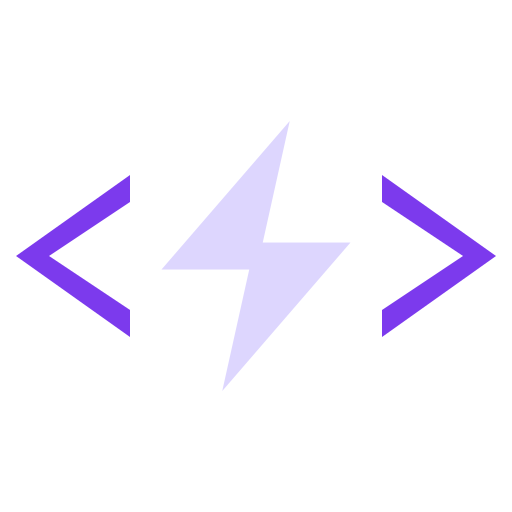
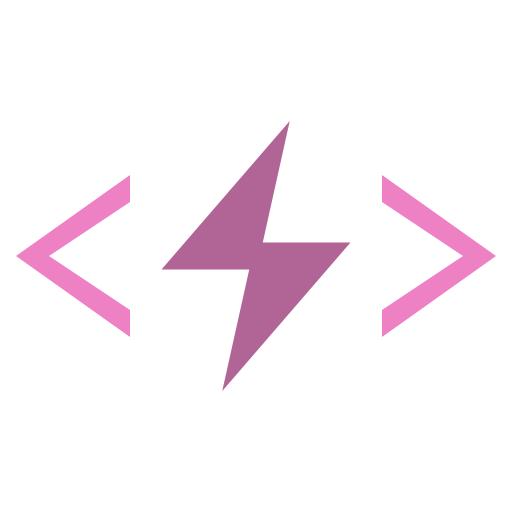
v0.24.3: Update README with breakdown vs plan philosophy, remove context sharing text

Changed region(s): [[0.3125, 0.25, 0.6875, 0.75], [0.7188, 0.3438, 0.9688, 0.6562], [0.0312, 0.3438, 0.2812, 0.6562]]

diff --git a/src/webview/App.tsx b/src/webview/App.tsx
@@ -59,6 +59,7 @@ export function App({ vscode }: AppProps) {
   );
   const autoResize = useTextareaAutoResize(textareaRef);
   useCodeActions(messageListRef, pinnedQueryRef, state.isStreaming);
+  useCodeActions(stepListRef, stepPinnedQueryRef, state.isStreaming, state.selectedStepIndex);
 
   // Keep message list bottom padding in sync with the input area height
   useEffect(() => {
@@ -277,8 +278,7 @@ export function App({ vscode }: AppProps) {
                 <Logo />
                 <div class="empty-state-text">
                   Your thinking partner — explore code, break down work, get
-                  your changes reviewed. Context is shared with the inline
-                  agent.
+                  your changes reviewed.
                 </div>
               </div>
             ) : (

diff --git a/src/webview/useCodeActions.ts b/src/webview/useCodeActions.ts
@@ -10,6 +10,7 @@ export function useCodeActions(
   messageListRef: preact.RefObject<HTMLDivElement>,
   pinnedQueryRef: preact.RefObject<HTMLDivElement>,
   isStreaming: boolean,
+  key?: unknown,
 ) {
   const isStreamingRef = useRef(isStreaming);
   isStreamingRef.current = isStreaming;
@@ -108,7 +109,7 @@ export function useCodeActions(
       list.removeEventListener("mouseleave", onMouseLeave);
       list.removeEventListener("scroll", onScroll);
     };
-  }, []);
+  }, [key]);
 
   // When streaming starts, hide any currently visible code-action buttons so
   // they don't linger on screen until the next pointer event.

diff --git a/src/webview/styles.css b/src/webview/styles.css
@@ -71,12 +71,11 @@ body {
 }
 
 .logo-bracket {
-  fill: var(--vscode-panelTitle-activeBorder);
+  fill: #ee81c3;
 }
 
 .logo-bolt {
-  fill: var(--vscode-panelTitle-activeBorder);
-  opacity: 0.7;
+  fill: #b16496;
 }
 
 .logo-text {
@@ -88,7 +87,7 @@ body {
 }
 
 .logo-text-accent {
-  fill: var(--vscode-panelTitle-activeBorder);
+  fill: #ee81c3;
 }
 
 .empty-state-text {
@@ -107,6 +106,7 @@ body {
 }
 
 .message-user {
+  position: relative;
   padding: 10px 12px;
   border-radius: 6px;
   background: var(--vscode-input-background);

diff --git a/README.md b/README.md
@@ -21,14 +21,16 @@ Your thinking partner. Lives in the sidebar. Powered by Claude Code CLI running 
 - Ask questions, explore approaches, and gather context
 - When you want to implement something, the assistant creates a **breakdown** — a list of focused steps, each targeting a specific file
 
-### Breakdown
+## Breakdowns, not plans
 
-The breakdown appears at the top of the assistant panel. Each step describes what needs to be done in a specific file, with hints and guidance rather than the full solution. Click a step to see its details and open the target file.
+Coding agents like Claude Code use **plan mode** — the AI creates a plan and then the AI implements it. You review the result. This works, but it comes with a cost: you stop building the mental model of your own codebase. You review diffs instead of writing code, and review is not the same as implementation. Reading a diff tells you _what_ changed. Writing the code teaches you _why_ it works, _how_ it connects, and _where_ the fragile parts are.
 
-Each step has a ⚡ **apply button** that triggers a fast editing agent (Haiku) to implement that step automatically.
+CodeSpark takes a different approach. The assistant creates a **breakdown** — a list of focused steps, each targeting a specific file — but _you_ implement them. The AI helps you understand the problem, explores the codebase, and generates the context you need to move fast. Then you write the code, or let the fast editing agent handle the mechanical parts while you stay in control.
 
-You can also make the changes yourself — the breakdown is there to guide you either way.
+This matters because **you are responsible for your codebase**. Your understanding of it is not a nice-to-have — it is what makes you effective. That understanding evolves through implementation, not through review. Every time you write code, you reinforce your mental model. Every time you skip implementation and only review, that model atrophies.
 
-### Context
+The breakdown makes this practical:
 
-The assistant's findings are automatically shared with the editing agent. Additionally, `CLAUDE.md` files in your project hierarchy provide persistent instructions and can reference files that get included as context.
+- **Context generation is fast** — the assistant reads files, searches the codebase, and synthesizes what you need to know.
+- **Context is sticky** — because you implement the steps, what you learn stays with you. It becomes part of how you think about the codebase.
+- **Token cost drops dramatically** — a breakdown is a fraction of the tokens an agent spends implementing a full plan. The AI does the exploration and guidance; you do the thinking and typing. The expensive part (iterating on implementation with an LLM) is replaced by the cheap part (you, writing code with guidance).
